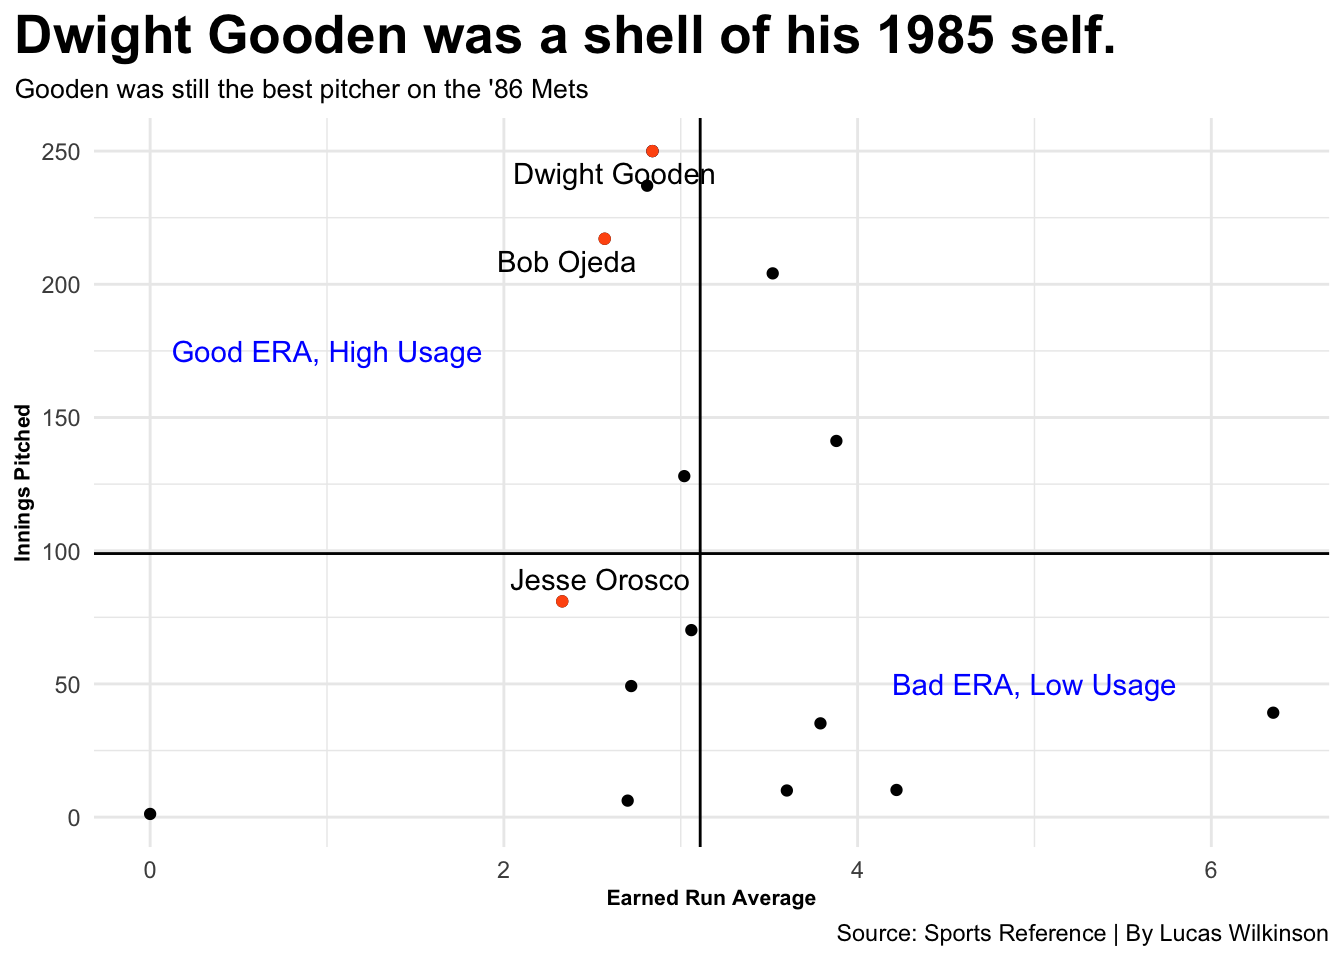
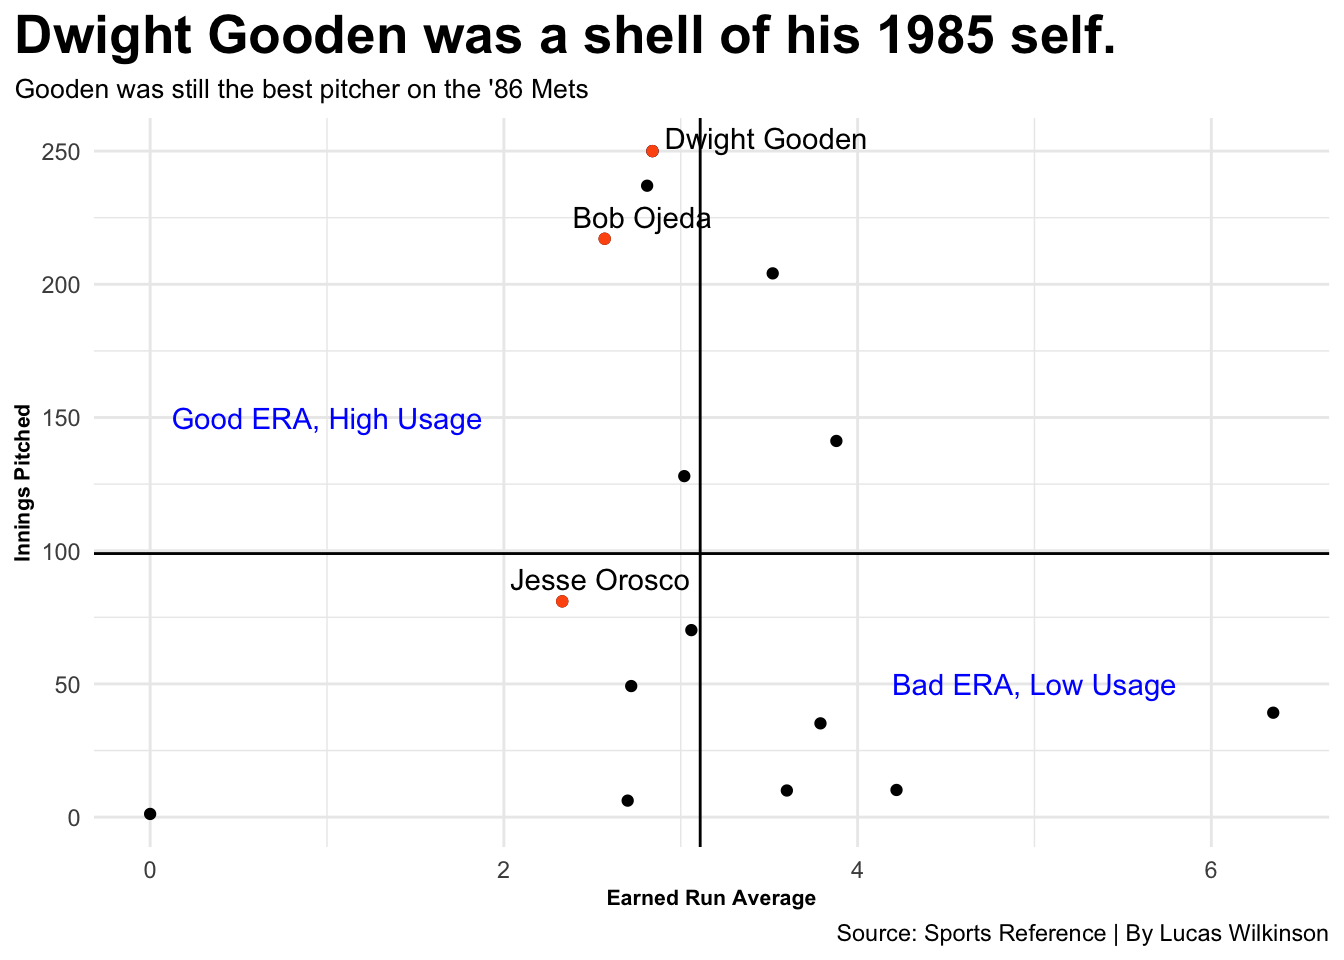
hopefullythisworks

diff --git a/posts/best-player-on-mets/index.html b/posts/best-player-on-mets/index.html
@@ -324,7 +324,7 @@ code span.wa { color: #60a0b0; font-weight: bold; font-style: italic; } /* Warni
 <span id="cb3-14"><a href="#cb3-14" aria-hidden="true" tabindex="-1"></a>    </span>
 <span id="cb3-15"><a href="#cb3-15" aria-hidden="true" tabindex="-1"></a>  <span class="fu">geom_vline</span>(<span class="at">xintercept =</span> <span class="fl">98.9333333</span>) <span class="sc">+</span> </span>
 <span id="cb3-16"><a href="#cb3-16" aria-hidden="true" tabindex="-1"></a>  <span class="fu">geom_hline</span>(<span class="at">yintercept =</span> <span class="fl">3.11</span>) <span class="sc">+</span></span>
-<span id="cb3-17"><a href="#cb3-17" aria-hidden="true" tabindex="-1"></a>  <span class="fu">geom_text</span>(<span class="fu">aes</span>(<span class="at">y=</span><span class="dv">1</span>, <span class="at">x=</span><span class="dv">175</span>, <span class="at">label=</span><span class="st">"Good ERA, High Usage"</span>), <span class="at">color=</span><span class="st">"blue"</span>) <span class="sc">+</span></span>
+<span id="cb3-17"><a href="#cb3-17" aria-hidden="true" tabindex="-1"></a>  <span class="fu">geom_text</span>(<span class="fu">aes</span>(<span class="at">y=</span><span class="dv">1</span>, <span class="at">x=</span><span class="dv">150</span>, <span class="at">label=</span><span class="st">"Good ERA, High Usage"</span>), <span class="at">color=</span><span class="st">"blue"</span>) <span class="sc">+</span></span>
 <span id="cb3-18"><a href="#cb3-18" aria-hidden="true" tabindex="-1"></a>  <span class="fu">geom_text</span>(<span class="fu">aes</span>(<span class="at">y=</span><span class="dv">5</span>, <span class="at">x=</span><span class="dv">50</span>, <span class="at">label=</span><span class="st">"Bad ERA, Low Usage"</span>), <span class="at">color=</span><span class="st">"blue"</span>) <span class="sc">+</span></span>
 <span id="cb3-19"><a href="#cb3-19" aria-hidden="true" tabindex="-1"></a>  </span>
 <span id="cb3-20"><a href="#cb3-20" aria-hidden="true" tabindex="-1"></a>  <span class="fu">labs</span>(</span>

diff --git a/index.html b/index.html
@@ -157,7 +157,7 @@ ul.task-list{list-style: none;}
 
 <div class="quarto-listing quarto-listing-container-default" id="listing-listing">
 <div class="list quarto-listing-default">
-<div class="quarto-post image-right" data-index="0" data-categories="mets,code,analysis" data-listing-date-sort="1670133600000" data-listing-file-modified-sort="1670210129720" data-listing-reading-time-sort="5.48">
+<div class="quarto-post image-right" data-index="0" data-categories="mets,code,analysis" data-listing-date-sort="1670133600000" data-listing-file-modified-sort="1670210487945" data-listing-reading-time-sort="5.48">
 <div class="thumbnail">
 <p><a href="./posts/best-player-on-mets/index.html"> <img src="./posts/best-player-on-mets/image.pnc.png" class="thumnail-image"> </a></p>
 </div>
